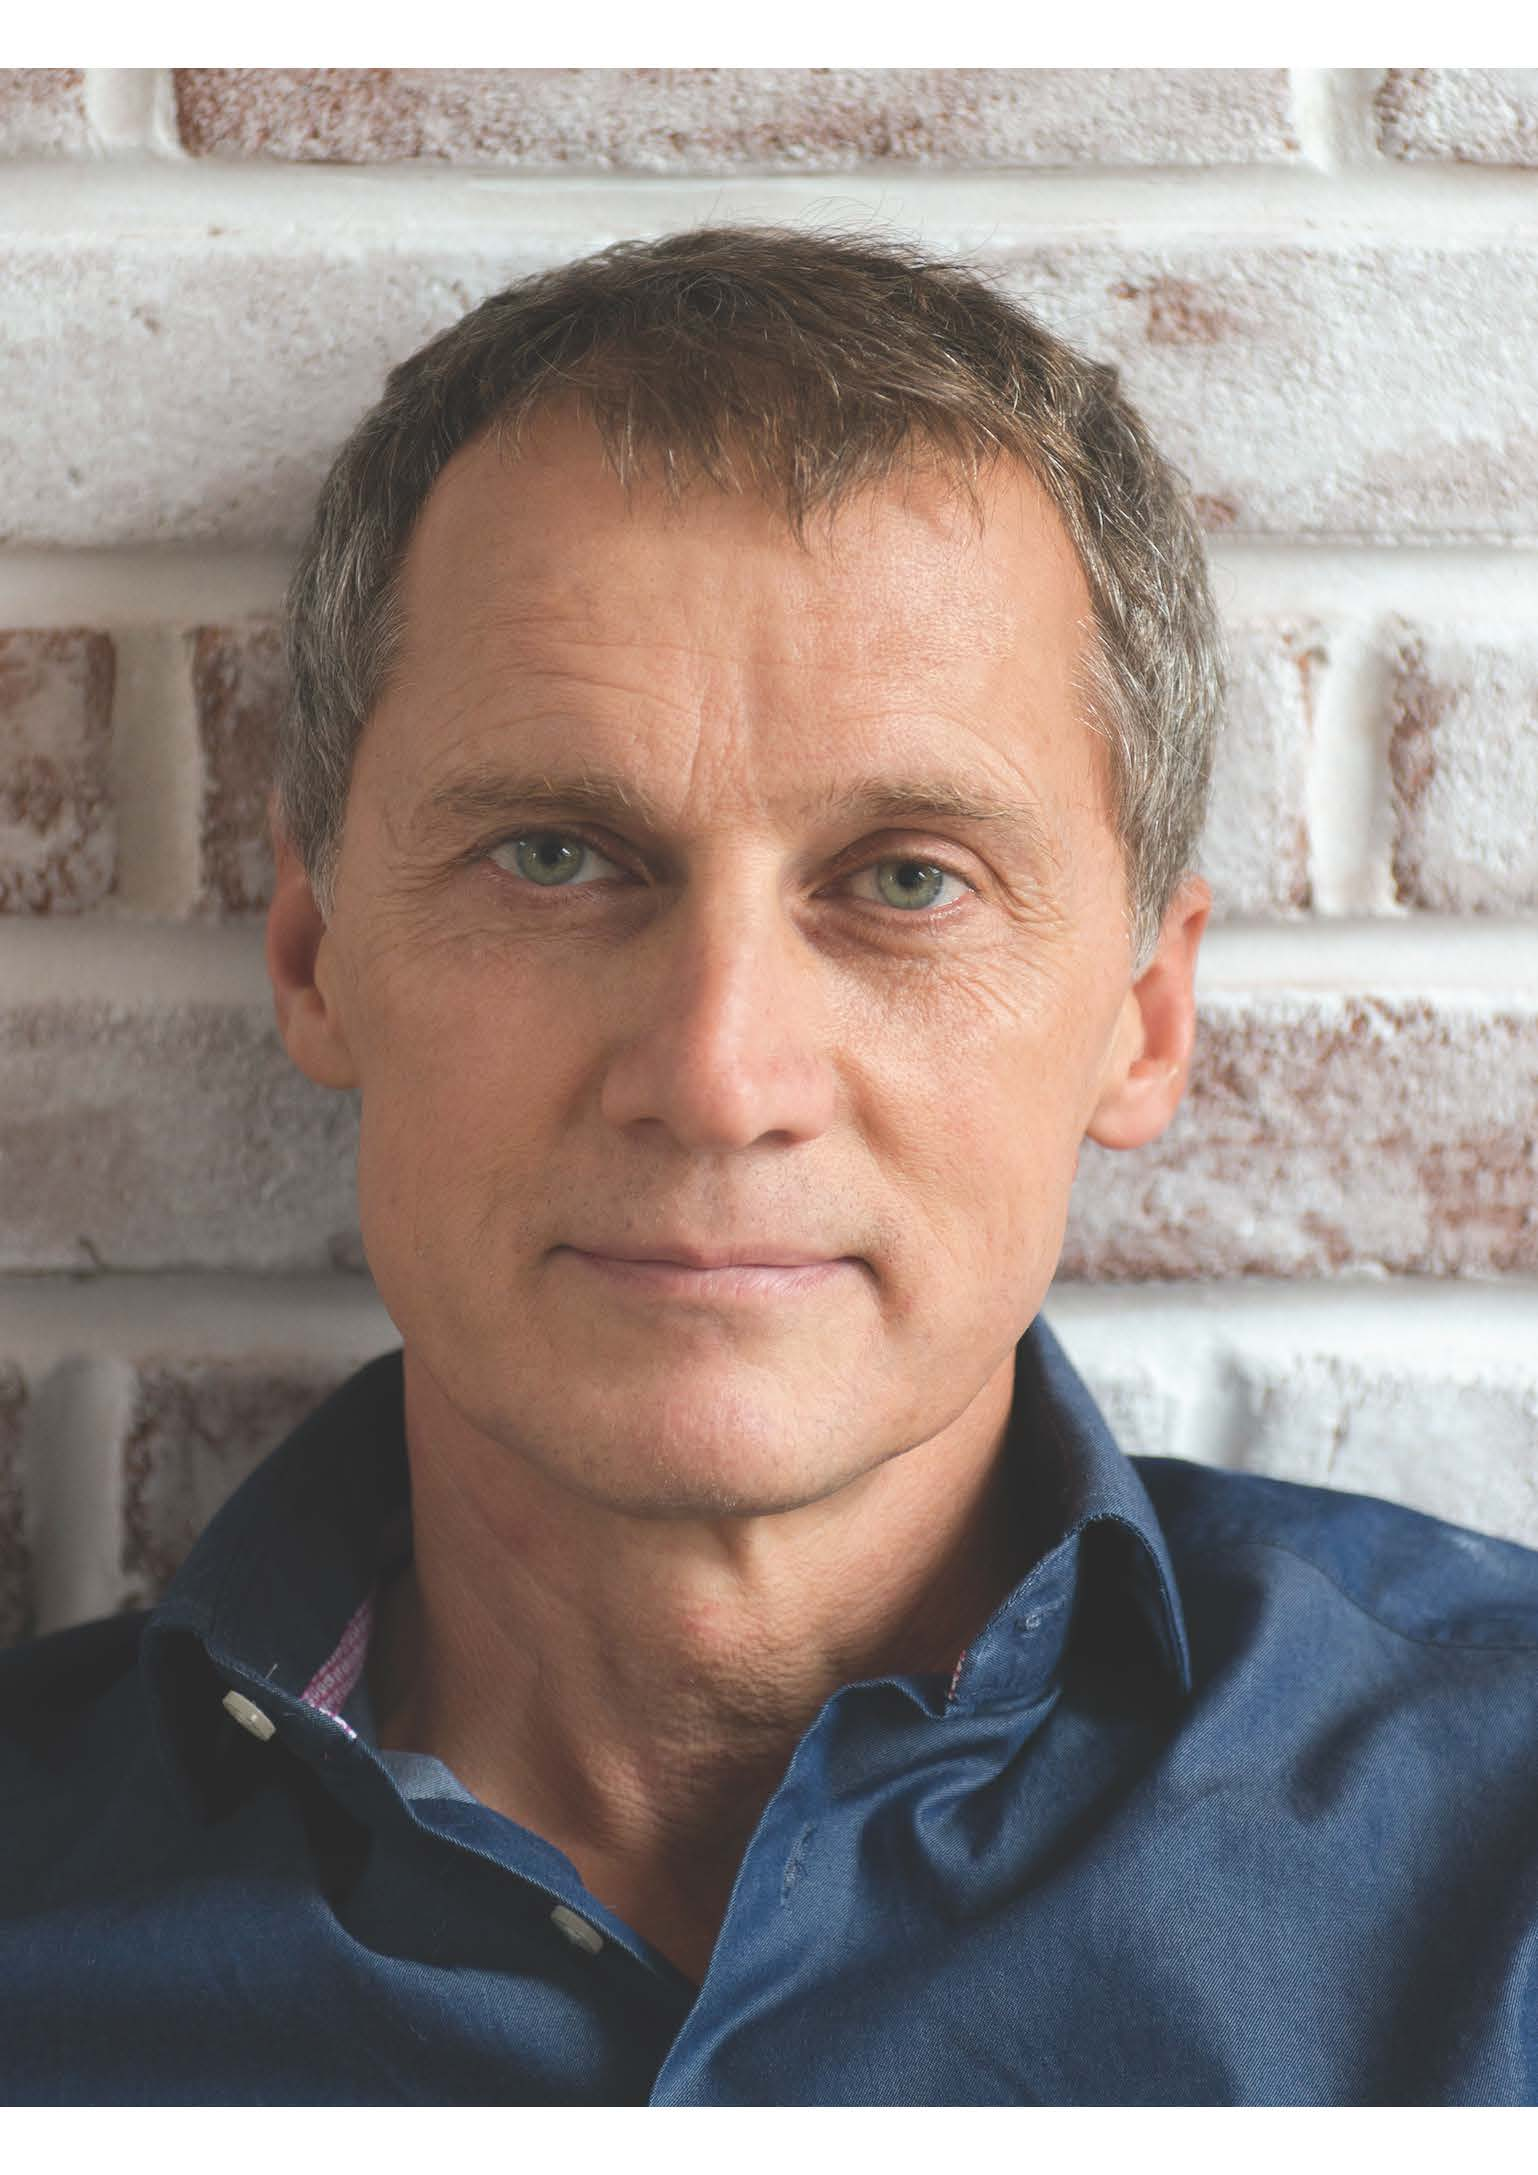
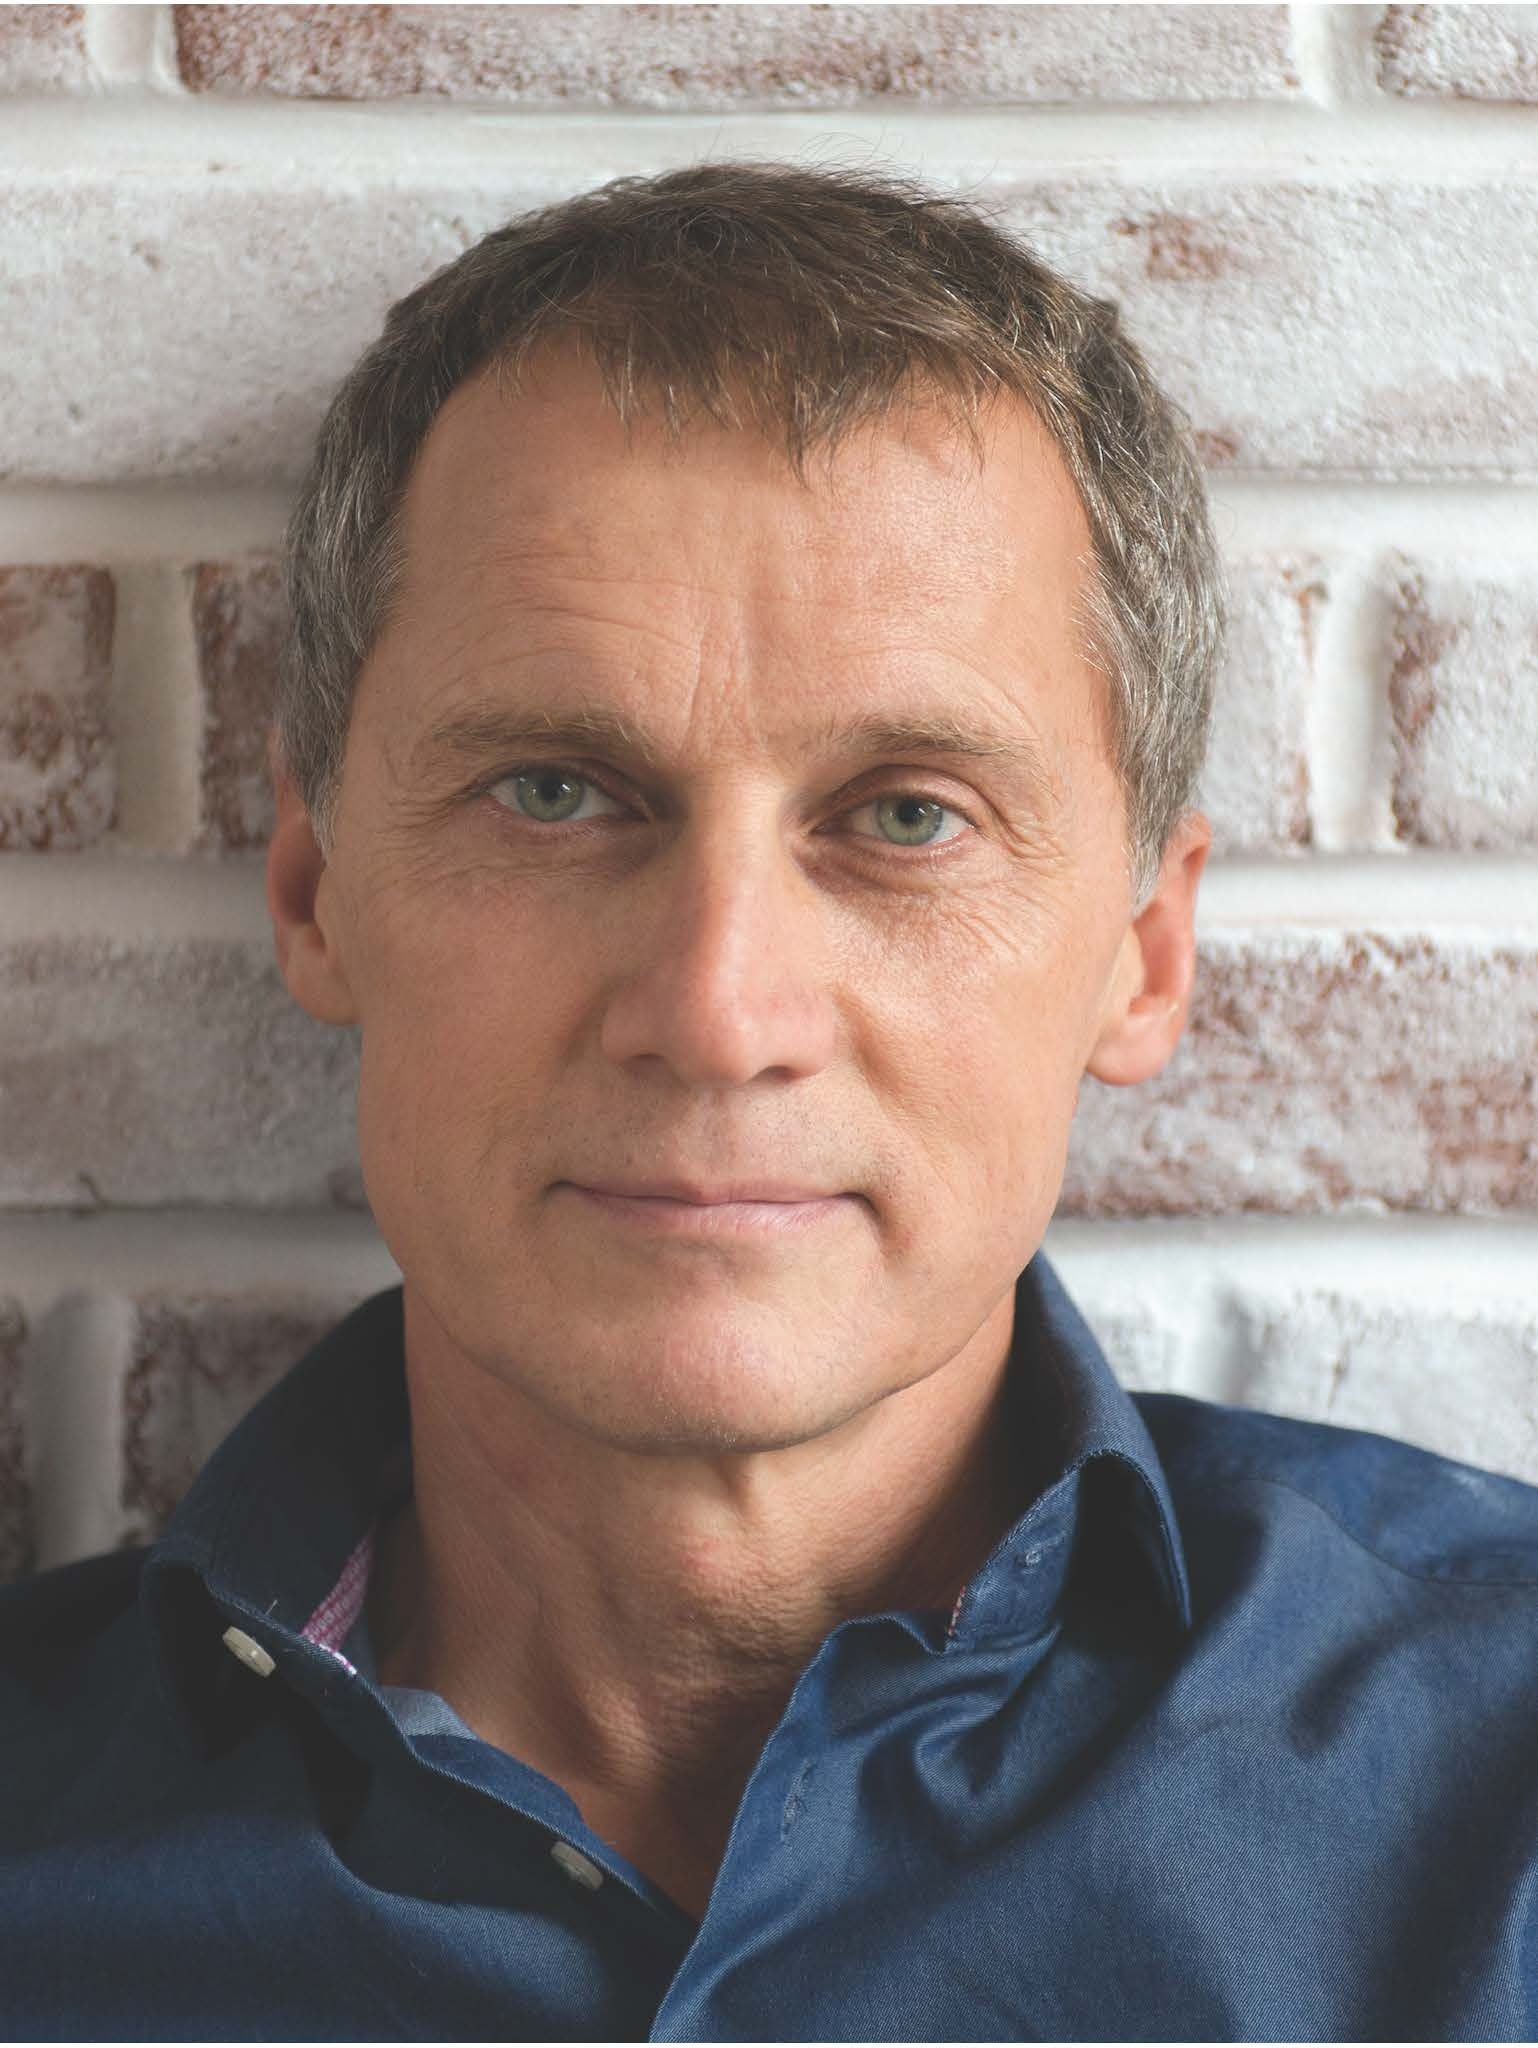
Michael Pask: crop photo, add LinkedIn, update bio intro
Removes white margins from photo (64px top, 63px bottom), adds LinkedIn
profile link, and updates first sentence to name him as Non-Executive
Director of Conservation Capital.

diff --git a/index.html b/index.html
@@ -1781,6 +1781,7 @@
             <div class="team-role">Senior Advisor</div>
             <div class="team-card-btns">
               <button class="team-bio-btn">Bio <svg width="11" height="11" viewBox="0 0 14 14" fill="none"><path d="M1 7h12M8 2l5 5-5 5" stroke="currentColor" stroke-width="2" stroke-linecap="round" stroke-linejoin="round"/></svg></button>
+              <a class="team-li-btn" href="https://www.linkedin.com/in/michael-pask-a8679011/" target="_blank" rel="noopener" onclick="event.stopPropagation()"><svg width="14" height="14" viewBox="0 0 24 24" fill="currentColor"><path d="M20.447 20.452h-3.554v-5.569c0-1.328-.027-3.037-1.852-3.037-1.853 0-2.136 1.445-2.136 2.939v5.667H9.351V9h3.414v1.561h.046c.477-.9 1.637-1.85 3.37-1.85 3.601 0 4.267 2.37 4.267 5.455v6.286zM5.337 7.433a2.062 2.062 0 0 1-2.063-2.065 2.064 2.064 0 1 1 2.063 2.065zm1.782 13.019H3.555V9h3.564v11.452zM22.225 0H1.771C.792 0 0 .774 0 1.729v20.542C0 23.227.792 24 1.771 24h20.451C23.2 24 24 23.227 24 22.271V1.729C24 .774 23.2 0 22.222 0h.003z"/></svg></a>
             </div>
           </div>
         </div>
@@ -2148,7 +2149,8 @@
       michael: {
         name: 'Michael Pask', role: 'Senior Advisor',
         img: 'Brand_assets/Michael-Pask.jpg',
-        bio: 'Michael is a non-executive director and senior adviser with a keen interest in nature conservation and sustainable development. He spent over 25 years at WME IMG, the world\'s largest sports, entertainment and media business, as Senior Vice President, where he held senior roles spanning events, tourism, and the development and management of facilities and talent.\n\nAt WME IMG, Michael turned around the International Academy business and created a Golf Advisory practice, working with major clients including HSBC and on the French and Italian Ryder Cup bids. He also led the growth of European Golf Design (EGD) into the most successful golf course design consultancy in EMEA, with over 70 courses delivered across the region.\n\nLater as Head of the Sports Leisure Tourism Group, Michael developed deep expertise in place creation, strategic planning, brand development, and business development. This experience now informs his advisory work at the intersection of conservation, tourism, and sustainable finance.'
+        linkedin: 'https://www.linkedin.com/in/michael-pask-a8679011/',
+        bio: 'Michael is a Non-Executive Director of Conservation Capital, with a keen interest in nature conservation and sustainable development. He spent over 25 years at WME IMG, the world\'s largest sports, entertainment and media business, as Senior Vice President, where he held senior roles spanning events, tourism, and the development and management of facilities and talent.\n\nAt WME IMG, Michael turned around the International Academy business and created a Golf Advisory practice, working with major clients including HSBC and on the French and Italian Ryder Cup bids. He also led the growth of European Golf Design (EGD) into the most successful golf course design consultancy in EMEA, with over 70 courses delivered across the region.\n\nLater as Head of the Sports Leisure Tourism Group, Michael developed deep expertise in place creation, strategic planning, brand development, and business development. This experience now informs his advisory work at the intersection of conservation, tourism, and sustainable finance.'
       },
       ed: {
         name: 'Ed Burbidge', role: 'Senior Advisor',
